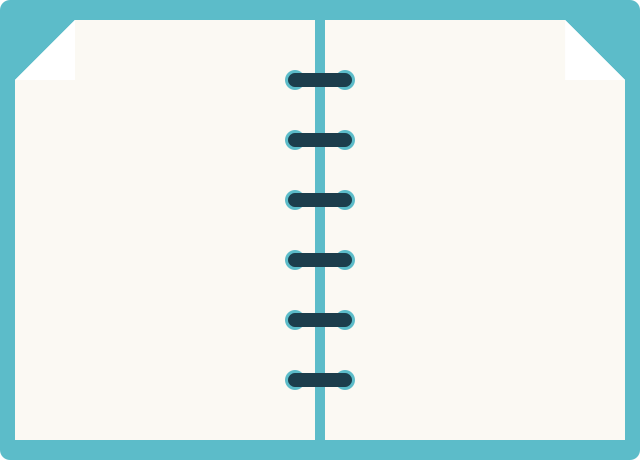
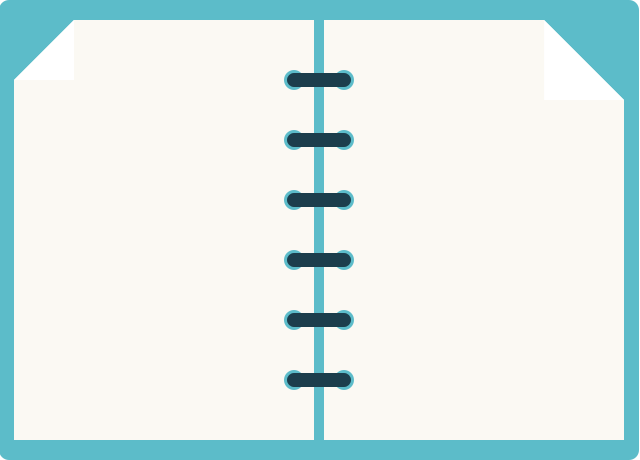
替换任务引导背景图

diff --git a/app/assets/stylesheets/pages/assignments.sass b/app/assets/stylesheets/pages/assignments.sass
@@ -62,8 +62,8 @@
   right: 1rem
 .task-pagination
   position: absolute
-  top: 3.4rem
-  right: 2.2rem
+  top: 4.4rem
+  right: 3rem
   cursor: pointer
   .curr-page
     font-size: 1.4rem
